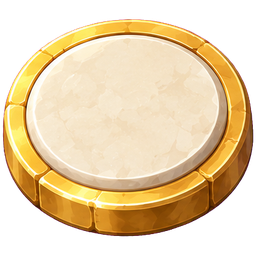
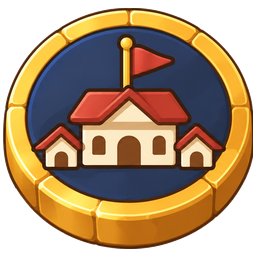
feat(world-atlas): 町のマスを、藍色の面に赤い屋根の館と旗を貼った台にする
金の縁に生成りの面だけでは、開けた何もないマスと同じ色で、ダンジョンにつながる町だと読めなかった。町らしい案からユーザーが選んだ旗の館の絵に差し替える。

diff --git a/doc/art/direction.md b/doc/art/direction.md
@@ -82,8 +82,8 @@ updated: 2026-11-02
 | 操作のためのアイコン（ホームの左下のボタンと設定の歯車、編成・商会・神殿のメニュー、案内人の画面の「もどる」と×） | ドット絵にせず、縁取りのない白一色の形で描き、文字と同じ色で表示する。重なる部品はすき間で分け、細部はくり抜く。角は丸めず、影も付けない。図案は中でできることを道具で表す（ホームの編成は盾と剣、商会は天秤、神殿は召喚の魔法陣。編成のメニューの冒険者は名簿、育成は人の上半身と、その右の上向きの矢印。商会のメニューの買うは値札、売るは硬貨の山、合成は金床と槌、品質強化はカットした宝石、スキル覚醒は光の筋の上の星。神殿のメニューの召喚はホームの神殿と同じ召喚の魔法陣。ホームのライブラリは開いた本、設定の下のデバッグルームの一覧はフラスコと星。ライブラリのメニューのキャラクターは2人の仲間、装備は兜、スキルは扇に広げたカード、アイテムは薬瓶、敵は角のある魔物の顔、日々の歩数は足跡）。画像は192×192（歯車は128×128）で、描き方・文字の色の焼き込み・読み込みは[ゲーム内の対象の画像](../rules/frontend-design.md#ゲーム内の対象の画像)に従う。設定の歯車はTopと、「もどる」と×は商会・神殿・旅の案内所と共用する。所持ルーン、ボーナスの種類、武器・防具のアイコンはドット絵のまま | 2026-10-18 |
 | 探索の地図の地面（[Shared/Art/Stages/Exploration/](../../client/Assets/Baryonyx/Shared/Art/Stages/Exploration/) の `Ground<行き先>.png`、8枚） | Codex CLIの生成画像（1024×1024）を清書せず、PNGのまま使う。ドットの格子と色数の上限がなく、512pxごとに並べて敷き、少し暗くして表示する。マスと光の道の下に敷く床で、細かい質感のまま見せる | 2026-10-22 |
 | 前の街道の世界地図（`WorldMap`。2026-10-29から開く入口がない）の背景（[WorldMap/UI/Art/](../../client/Assets/Baryonyx/Features/WorldMap/UI/Art/) の `WorldMapBackground.png`） | Codex CLIの生成画像（1536×1024）を清書せず、Pointで3倍に拡大して表示する | 2026-10-24 |
-| 入れ子の地図の試作の背景（[WorldMap/Atlas/Art/](../../client/Assets/Baryonyx/Features/WorldMap/Atlas/Art/)）と地域のマス・入口の台（`WorldNodeGate.png`） | 背景はCodex CLIで区画ごとに描き直してつないだ生成画像を清書せずに使い、スマホでは[画像の圧縮](../rules/frontend-design.md#画像の圧縮)の、入れ子の地図の背景の形式で取り込む。地域のマスと入口の台は、金の縁に深緑の面と赤い旗を描いた生成画像（[入れ子の地図](../features/world-atlas.md)） | 2026-10-27 |
-| 世界地図・エリアマップのマスと出来事の台（[WorldMap/UI/Art/](../../client/Assets/Baryonyx/Features/WorldMap/UI/Art/) の `WorldNode<種類>.png`（`WorldNodeGate.png` を除く）・`WorldEvent<種類>.png`） | Codex CLIの生成画像を清書せず、256×256に置いてなめらかに縮めて表示する。段のある石の台に、台なしで描き直した印を面に貼る（[マスに置いた出来事](../features/world-atlas/square-events.md#マスに置いた出来事)） | 2026-10-29 |
+| 入れ子の地図の試作の背景（[WorldMap/Atlas/Art/](../../client/Assets/Baryonyx/Features/WorldMap/Atlas/Art/)）と地域のマス・入口の台（`WorldNodeGate.png`）・町の台（`WorldNodeTown.png`） | 背景はCodex CLIで区画ごとに描き直してつないだ生成画像を清書せずに使い、スマホでは[画像の圧縮](../rules/frontend-design.md#画像の圧縮)の、入れ子の地図の背景の形式で取り込む。地域のマスと入口の台は、金の縁に深緑の面と赤い旗を描いた生成画像。町の台（`WorldNodeTown.png`）も、金の縁に藍色の面と赤い屋根の館を描いた生成画像を切り出して使う（[入れ子の地図](../features/world-atlas.md)） | 2026-10-27 |
+| 世界地図・エリアマップのマスと出来事の台（[WorldMap/UI/Art/](../../client/Assets/Baryonyx/Features/WorldMap/UI/Art/) の `WorldNode<種類>.png`（`WorldNodeGate.png`・`WorldNodeTown.png` を除く）・`WorldEvent<種類>.png`） | Codex CLIの生成画像を清書せず、256×256に置いてなめらかに縮めて表示する。段のある石の台に、台なしで描き直した印を面に貼る（[マスに置いた出来事](../features/world-atlas/square-events.md#マスに置いた出来事)） | 2026-10-29 |
 | 探索の地図のマスの台と凡例（[Adventure/UI/Art/](../../client/Assets/Baryonyx/Features/Adventure/UI/Art/) の `RoomPlate<種類>.png`・`RoomLegend<種類>.png`） | 世界地図と同じ石の台の生成画像（256×256）を使い、ドット絵にしない（[冒険の画面](../features/screens/adventure.md#冒険の画面)） | 2026-10-29 |
 | 固有スキルの未取得の段階の封印と鎖（[CardLoadout/UI/Art/](../../client/Assets/Baryonyx/Features/CardLoadout/UI/Art/) の `StageSeal.png`・`StageSealChain.png`） | ユーザーが選んだ生成画像の見た目のまま、背景を透明にして使う。UIの飾りは、ドット絵にするかを先にユーザーと決める | 2026-10-18 |
 | 3Dの舞台（Top・Home・戦闘画面）のテクスチャとキャラ | 3Dの面に貼るテクスチャと、3Dに立たせたキャラの板は、遠近と光で拡縮・色付けされ、1ドットを整数pxに丸めない。テクスチャの描き方は[3Dの舞台のテクスチャ](hd2d-stage/textures.md#テクスチャ)に従う。3Dへの移行はユーザーの依頼によるもので、光の描き込みを控える点は実装上の判断である | 2026-10-02 |

diff --git a/doc/features/world-atlas/maps.md b/doc/features/world-atlas/maps.md
@@ -136,7 +136,13 @@ updated: 2026-11-03
 マスは、あとで出来事のアイコンを描き込めるくらいの大きさにし、駒はマスより少し大きい程度にした。
 押せる範囲は、台の大きさでは押しにくかったため（2026-10-28、ユーザー）、台の外へ透明に広げた。いちばん近いマスどうしの間（世界地図76、エリアマップ94）でも、隣のマスの台にかからない幅にしている。町・地域のマス・入口は、台のほうが大きいため台の大きさで押す。
 2本指の拡大・縮小は、前の街道と同じ上限（2倍）と下限（地図が画面を埋めるところ）にする。
-世界地図の地域のマスとエリアマップの入口は、どちらも同じ台（`WorldNodeGate.png`）にする。金の縁の内側を深緑の面にし、赤い旗を立てた絵で、何もないマスや町の生成りの面と見分けられるようにした（2026-11-01、ユーザー）。地域へ入るときも出るときも同じ台を使う。Codex CLIで4案を1枚に描かせ（依頼文は [requests/](../../../client/ArtSource/WorldMap/Atlas/requests/) の `region_squares.txt`。添付は今のマスの一組と、地域のマスを世界地図に置いた画面）、2案目を切り出して、横幅256・縦の中心を町の台にそろえて置いた。旗は、出来事の台と同じく面に貼る形にしている（2026-11-02、ユーザーの「この旗も、面に収める形に揃えて」による。それまでは旗の先の玉が面の縁にかかり、台から立って見えた）。今の台から旗を消して深緑の面を周りの色で埋め、Codex CLIで台なしで描き直した旗（依頼文は `region_flag.txt`。4案から今の旗と同じ形の1案目を使った）を、出来事の印と同じ割合で面の内側に貼った。
+世界地図の地域のマスとエリアマップの入口は、どちらも同じ台（`WorldNodeGate.png`）にする。金の縁の内側を深緑の面にし、赤い旗を立てた絵で、何もないマスの生成りの面と見分けられるようにした（2026-11-01、ユーザー）。地域へ入るときも出るときも同じ台を使う。Codex CLIで4案を1枚に描かせ（依頼文は [requests/](../../../client/ArtSource/WorldMap/Atlas/requests/) の `region_squares.txt`。添付は今のマスの一組と、地域のマスを世界地図に置いた画面）、2案目を切り出して、横幅256・縦の中心を町の台にそろえて置いた。旗は、出来事の台と同じく面に貼る形にしている（2026-11-02、ユーザーの「この旗も、面に収める形に揃えて」による。それまでは旗の先の玉が面の縁にかかり、台から立って見えた）。今の台から旗を消して深緑の面を周りの色で埋め、Codex CLIで台なしで描き直した旗（依頼文は `region_flag.txt`。4案から今の旗と同じ形の1案目を使った）を、出来事の印と同じ割合で面の内側に貼った。
+町のマス（`WorldNodeTown.png`）は、金の縁の内側を深い藍色の面にし、赤い屋根の館と赤い三角旗、両脇の小さな家を面に貼った絵にする（2026-11-05、ユーザー）。
+それまでは金の縁に生成りの面だけで、開けた何もないマスと同じ色のため、大きさでしか見分けられず、ダンジョンにつながる場所だと読めなかった。
+今の地図の画面を土台に、ダンジョンの入口・町並みの紋章・台の形・封印の錠前・旗や篝火を乗せる、の5案を出したところ、ユーザーは「町っぽいほうがいい」と町並みの方向を選んだ。
+町並みに色を付けた家並み・町の門・噴水の広場・鐘楼・旗の館を足した8案から、旗の館を選んだ。
+Codex CLIで2案を1枚に描かせ（依頼文は [requests/](../../../client/ArtSource/WorldMap/Atlas/requests/) の `town_squares.txt`。添付は今のマスの一組と、エリアマップの画面）、右の案を切り出して、横幅250・縦の中心を画像の中央にそろえて256×256に置いた。
+ダンジョンのない宿場町も含め、すべての町が同じ台を使う。
 
 ### 地図とマス（仮）
 

diff --git a/doc/heading-index/features.md b/doc/heading-index/features.md
@@ -1028,7 +1028,7 @@
 
 ## [features/world-atlas/maps.md](../features/world-atlas/maps.md)
 
-28KB・209行
+29KB・215行
 
 - 8: # 入れ子の地図：地図と進み方
 - 12: ## 確定している方針
@@ -1037,9 +1037,9 @@
 - 55: ### 切り替えの演出
 - 69: ### マスを開くルーン
 - 121: ### 見た目の数値（仮）
-- 141: ### 地図とマス（仮）
-- 163: ### 背景の作り方
-- 189: ### Unityでの置き場所
+- 147: ### 地図とマス（仮）
+- 169: ### 背景の作り方
+- 195: ### Unityでの置き場所
 
 ## [features/world-atlas/square-events.md](../features/world-atlas/square-events.md)
 
